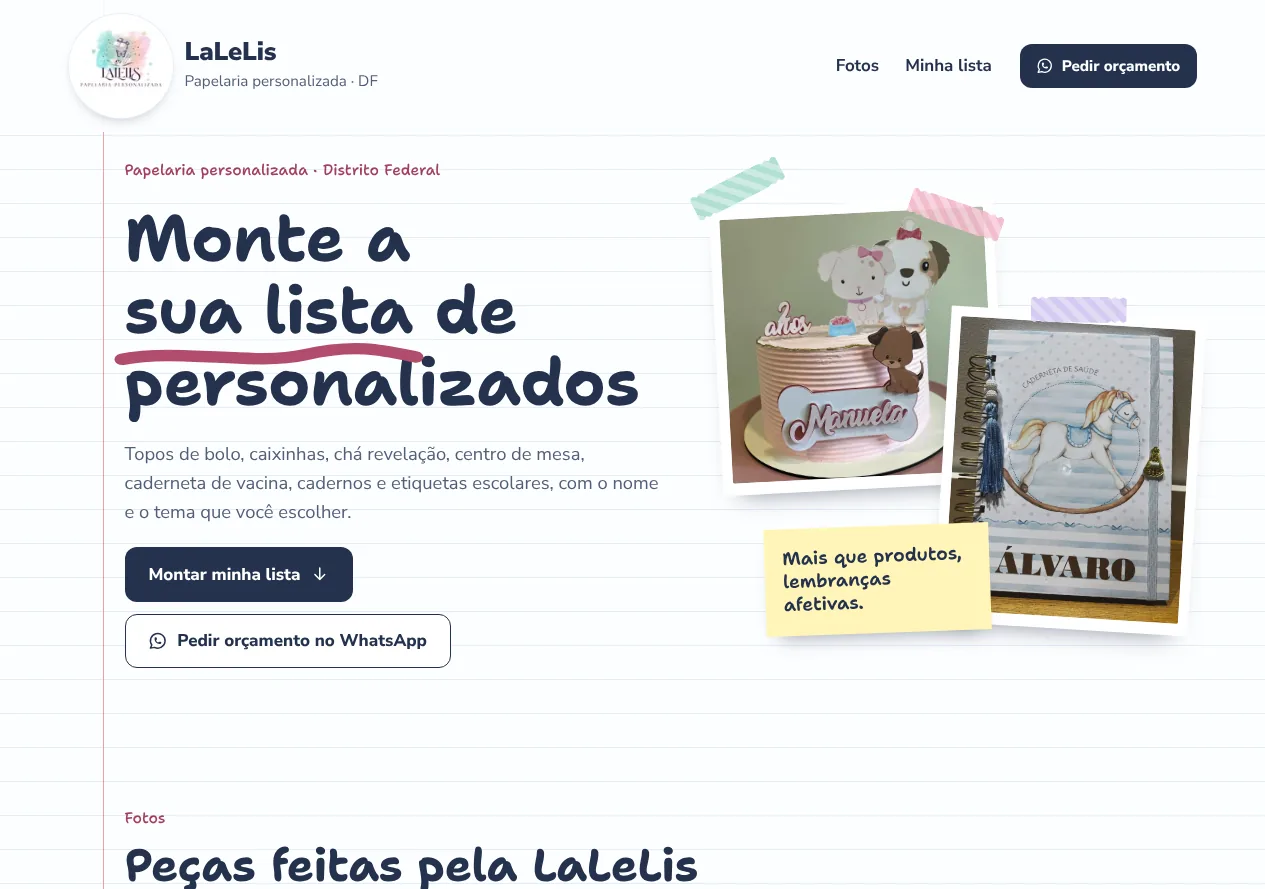
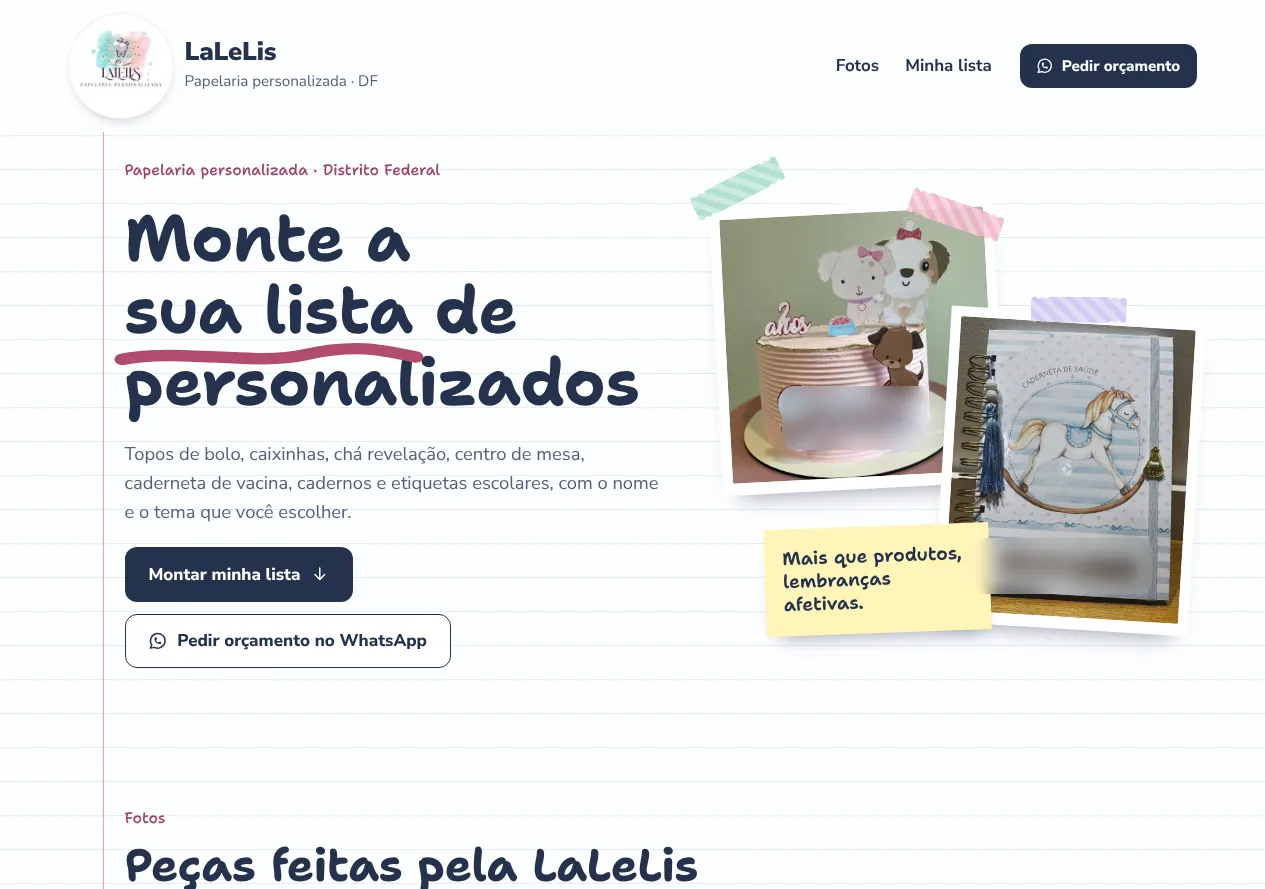
fix: blur children's names in LaLeLis captures; Afeto Nobre as landing page example
The LaLeLis portfolio captures showed children's names on products; they are
now blurred, following Carlos's rule for LaLeLis images. The live example on
the R$ 697 landing page (PT and EN) is now Afeto Nobre, built in that package;
Bolachinhas da Vovó Juju stays in the portfolio.

Claude-Session: https://claude.ai/code/session_019NsJnPmERVuEdkdS3RKa8C

Changed region(s): [[0.6166, 0.4252, 0.7399, 0.5163], [0.7708, 0.6074, 0.9249, 0.6682]]

diff --git a/AGENTS.md b/AGENTS.md
@@ -208,3 +208,8 @@ Build app UI in `src/`. Preserve the verified localized-shell and strict-route b
 - "Next project" on case pages now walks the client list in order and returns to the first after the last.
 - Order chosen by Carlos on 2026-10-26: Infinity Car Studio, LaLeLis, Afeto Nobre, Bolachinhas da Vovó Juju (home, portfolio and "next project"). On the home client cards, the "see the case / visit the site" links sit at the bottom of each card, so cards side by side keep them on the same line.
 - Analytics (approved by Carlos on 2026-10-26, same PR): the four new case pages join the allowlist, now 20 commercial pages. The PT/EN privacy notices name the four client projects and are dated 2026-10-26. Events, consent policy v4, refusals, expiry and test mode are unchanged; no reconfirmation was required because the consent banner already covers portfolio pages generically.
+
+## Landing page example and LaLeLis captures (2026-10-26)
+
+- Carlos decided that Bolachinhas da Vovó Juju leaves all advertising and stays in the portfolio (/projetos/ and its case page). The "Live example" on `/criacao-de-landing-pages/` and `/en/landing-pages/` is now Afeto Nobre, described as built in the R$ 697 package (confirmed by Carlos).
+- Children's names on LaLeLis products are blurred in the portfolio captures (`lalelis-desktop.webp`, `lalelis-mobile.webp`). New captures of LaLeLis must blur names before use.
